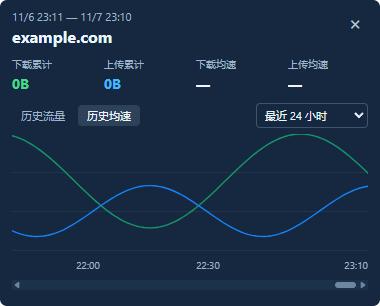
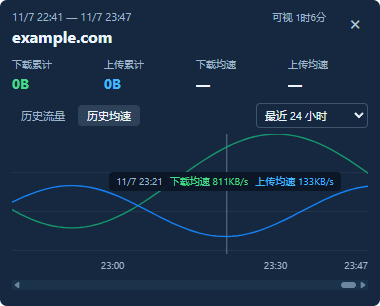
feat(history): Ctrl-wheel viewport zoom / 历史图表可视跨度缩放
Separate the visible span from the total history range, anchor Ctrl-wheel zoom to cursor time, and persist each chart scale. Update bilingual UI/docs/screenshots and regression coverage. Live restart remains pending because the environment rejected process restart and desktop control is unavailable.

区分总范围与窗口可视跨度，Ctrl＋滚轮按光标时间缩放，分别记住两种图表的缩放；更新双语界面、文档、截图与回归测试。正式实例自动重启被环境拦截，桌面控制不可用，尚待托盘退出后重开。

diff --git a/index.html b/index.html
@@ -187,6 +187,10 @@
     /* History is a horizontally scrollable timeline, not a fit-to-window chart. */
     .history-panel { position: relative; }
     .history-head { margin-bottom: 10px; }
+    .history-title { flex: 1; }
+    .history-kicker { display: flex; align-items: baseline; gap: 6px; white-space: nowrap; }
+    #historyRangeLabel { min-width: 0; overflow: hidden; text-overflow: ellipsis; }
+    #historyVisibleSpan { flex-shrink: 0; margin-left: auto; font-size: 10px; }
     .history-summary { margin-bottom: 10px; }
     .history-toolbar { display: flex; align-items: center; justify-content: space-between; gap: 6px; margin-bottom: 6px; }
     .history-tabs { margin-bottom: 0; flex-shrink: 0; }
@@ -198,14 +202,15 @@
     .history-chart, .history-speed-chart { display: block; height: 144px; padding: 0; background: none !important; }
     .history-timeline { position: relative; height: 144px; }
     .history-traffic-plot { height: 120px; display: grid; align-items: end; gap: 3px; }
-    .history-hour { height: 120px; }
+    .history-hour { height: 120px; gap: var(--history-bar-gap, 1px); }
+    .history-traffic-plot .history-bar-down, .history-traffic-plot .history-bar-up { min-width: 0; }
     .history-speed-svg { height: 120px; }
     .history-traffic-plot, .history-speed-svg { background: repeating-linear-gradient(to bottom, transparent 0, transparent 38px, rgba(157,181,200,.17) 39px); }
     .history-axis { position: relative; height: 24px; color: #9fb5c8; font-size: 10px; }
     .history-panel.light .history-axis { color: #6f8495; }
     .history-axis span { position: absolute; top: 4px; white-space: nowrap; transform: translateX(-50%); }
-    .history-axis span:first-child { transform: none; }
-    .history-axis span:last-child { transform: translateX(-100%); }
+    .history-axis .axis-start { transform: none; }
+    .history-axis .axis-end { transform: translateX(-100%); }
     .history-empty { display: block; padding-top: 48px; }
     .history-speed-legacy-note { bottom: 51px; left: 12px; z-index: 2; }
     @media (max-width: 750px) { .workspace { grid-template-columns: 1fr; } .stage { min-height: 270px; padding: 24px 18px; } .stage-heading { margin-bottom: 18px; } .settings { border-left: 0; border-top: 1px solid #d7e0dc; padding: 22px 18px 32px; } }
@@ -218,7 +223,7 @@
       <div id="meters" class="meters"></div>
       <span id="verticalAlignmentGuide" class="alignment-guide vertical" aria-hidden="true"></span>
       <span id="horizontalAlignmentGuide" class="alignment-guide horizontal" aria-hidden="true"></span>
-      <section id="historyPanel" class="history-panel" aria-labelledby="dialogTitle" hidden><div class="history-head"><div class="history-title"><span id="historyRangeLabel" class="history-kicker"></span><h2 id="dialogTitle">历史流量</h2></div><button id="closeDialog" class="close-button" type="button" aria-label="关闭" title="关闭" data-i18n-aria="action.close" data-i18n-title="action.close">×</button></div><div id="historySummary" class="history-summary"></div><div class="history-toolbar"><div class="history-tabs" role="tablist" aria-label="历史视图" data-i18n-aria="history.views"><button id="historyTabTraffic" class="history-tab" type="button" role="tab" data-tab="traffic" aria-selected="true" aria-controls="historyChart" data-i18n="history.tabTraffic">历史流量</button><button id="historyTabSpeed" class="history-tab" type="button" role="tab" data-tab="speed" aria-selected="false" aria-controls="historySpeedChart" data-i18n="history.tabSpeed">历史均速</button></div><select id="historyRange" class="history-range" aria-label="时间范围" data-i18n-aria="history.range"><option value="1h" data-i18n="history.range1h">最近 1 小时</option><option value="6h" data-i18n="history.range6h">最近 6 小时</option><option value="24h" data-i18n="history.range24h">最近 24 小时</option><option value="7d" data-i18n="history.range7d">最近 7 天</option><option value="30d" data-i18n="history.range30d">最近 30 天</option></select></div><div id="historyScroll" class="history-scroll" tabindex="0" role="region" aria-label="历史时间轴" data-i18n-aria="history.timeline"><div id="historyChart" class="history-chart" role="tabpanel" aria-labelledby="historyTabTraffic"></div><div id="historySpeedChart" class="history-speed-chart" role="tabpanel" aria-labelledby="historyTabSpeed" hidden></div></div></section>
+      <section id="historyPanel" class="history-panel" aria-labelledby="dialogTitle" hidden><div class="history-head"><div class="history-title"><div class="history-kicker"><span id="historyRangeLabel"></span><span id="historyVisibleSpan" data-i18n-title="history.zoomHint"></span></div><h2 id="dialogTitle">历史流量</h2></div><button id="closeDialog" class="close-button" type="button" aria-label="关闭" title="关闭" data-i18n-aria="action.close" data-i18n-title="action.close">×</button></div><div id="historySummary" class="history-summary"></div><div class="history-toolbar"><div class="history-tabs" role="tablist" aria-label="历史视图" data-i18n-aria="history.views"><button id="historyTabTraffic" class="history-tab" type="button" role="tab" data-tab="traffic" aria-selected="true" aria-controls="historyChart" data-i18n="history.tabTraffic">历史流量</button><button id="historyTabSpeed" class="history-tab" type="button" role="tab" data-tab="speed" aria-selected="false" aria-controls="historySpeedChart" data-i18n="history.tabSpeed">历史均速</button></div><select id="historyRange" class="history-range" aria-label="时间范围" data-i18n-aria="history.range"><option value="1h" data-i18n="history.range1h">最近 1 小时</option><option value="6h" data-i18n="history.range6h">最近 6 小时</option><option value="24h" data-i18n="history.range24h">最近 24 小时</option><option value="7d" data-i18n="history.range7d">最近 7 天</option><option value="30d" data-i18n="history.range30d">最近 30 天</option></select></div><div id="historyScroll" class="history-scroll" tabindex="0" data-i18n-title="history.zoomHint" role="region" aria-label="历史时间轴" data-i18n-aria="history.timeline"><div id="historyChart" class="history-chart" role="tabpanel" aria-labelledby="historyTabTraffic"></div><div id="historySpeedChart" class="history-speed-chart" role="tabpanel" aria-labelledby="historyTabSpeed" hidden></div></div></section>
     </section>
     <aside class="settings">
       <h2 data-i18n="settings.controller">外部控制器</h2>
@@ -253,6 +258,7 @@
       const KEY = 'netmeter-controller-v2';
       const HISTORY_TAB_KEY = 'netmeter-history-tab';
       const HISTORY_RANGE_KEY = 'netmeter-history-range';
+      const HISTORY_SPANS_KEY = 'netmeter-history-visible-spans';
       const HISTORY_RANGES = { '1h': 60, '6h': 360, '24h': 1440, '7d': 10080, '30d': 43200 };
       const I18N = {
         zh: {
@@ -272,7 +278,12 @@
           'status.configFailed': '配置失败 · {message}',
           'status.configFailedDefault': '无法保存',
           'history.last24h': '最近 24 小时',
-          'history.range': '时间范围',
+          'history.range': '总时间范围',
+          'history.visibleSpan': '可视 {span}',
+          'history.zoomHint': 'Ctrl＋滚轮调整可视跨度',
+          'history.durationDay': '{value}天',
+          'history.durationHour': '{value}时',
+          'history.durationMinute': '{value}分',
           'history.range1h': '最近 1 小时',
           'history.range6h': '最近 6 小时',
           'history.range24h': '最近 24 小时',
@@ -389,7 +400,12 @@
           'status.configFailed': 'Configuration failed · {message}',
           'status.configFailedDefault': 'Could not save',
           'history.last24h': 'Last 24 hours',
-          'history.range': 'Time range',
+          'history.range': 'Total time range',
+          'history.visibleSpan': 'View {span}',
+          'history.zoomHint': 'Ctrl + wheel to adjust the visible time span',
+          'history.durationDay': '{value}d',
+          'history.durationHour': '{value}h',
+          'history.durationMinute': '{value}m',
           'history.range1h': 'Last 1 hour',
           'history.range6h': 'Last 6 hours',
           'history.range24h': 'Last 24 hours',
@@ -521,6 +537,18 @@
         catch { return '24h'; }
       }
 
+      function storedHistoryVisibleSpans() {
+        const spans = { traffic: null, speed: null };
+        try {
+          const saved = JSON.parse(localStorage.getItem(HISTORY_SPANS_KEY));
+          for (const tab of ['traffic', 'speed']) {
+            const span = saved?.[tab];
+            if (Number.isFinite(span) && span >= 60000 && span <= 30 * 86400000) spans[tab] = span;
+          }
+        } catch { /* Invalid or unavailable storage keeps the initial density. */ }
+        return spans;
+      }
+
       function storedHistoryTab() {
         try {
           return localStorage.getItem(HISTORY_TAB_KEY) === 'speed' ? 'speed' : 'traffic';
@@ -606,6 +634,7 @@
       let historySamples = [];
       let historyRange = storedHistoryRange();
       let historyViewport = { traffic: null, speed: null };
+      const historyVisibleSpans = storedHistoryVisibleSpans();
       let historyLoadVersion = 0;
       let historyTarget = '';
       let renderedLanguage = '';
@@ -1625,27 +1654,130 @@
         return withDate ? (date.getMonth() + 1) + '/' + date.getDate() + ' ' + time : time;
       }
 
-      function drawHistoryAxis(timeline, start, end, width) {
+      function historySpanWidth(duration, span, minimum, available, fallback) {
+        if (!Number.isFinite(span) || span <= 0) return Math.max(available, fallback);
+        const bounded = Math.min(duration, Math.max(minimum, span));
+        return Math.max(available, Math.round(duration * available / bounded));
+      }
+
+      function historyZoomSpan(span, delta, minimum, maximum) {
+        const factor = Math.pow(1.2, Math.min(240, Math.max(-240, delta)) / 100);
+        return Math.min(maximum, Math.max(Math.min(minimum, maximum), span * factor));
+      }
+
+      function historyZoomPosition(oldWidth, newWidth, available, left, anchor) {
+        const x = Math.min(available, Math.max(0, anchor));
+        return Math.min(Math.max(0, newWidth - available), Math.max(0, (left + x) / oldWidth * newWidth - x));
+      }
+
+      function historyViewportBounds(start, end, width, available, left) {
+        const totalWidth = Math.max(available, width);
+        const offset = Math.min(Math.max(0, totalWidth - available), Math.max(0, left));
+        const duration = Math.max(0, end - start);
+        return { start: start + duration * offset / totalWidth, end: start + duration * (offset + available) / totalWidth };
+      }
+
+      function historyDurationLabel(duration) {
+        let minutes = Math.max(1, Math.round(duration / 60000));
+        const parts = [];
+        for (const [key, size] of [['history.durationDay', 1440], ['history.durationHour', 60], ['history.durationMinute', 1]]) {
+          const value = Math.floor(minutes / size);
+          if (value) parts.push(t(key, { value }));
+          minutes %= size;
+        }
+        return parts.join(language === 'en' ? ' ' : '');
+      }
+
+      function sizeHistoryTimeline(timeline, width) {
+        timeline.style.width = width + 'px';
+        const plot = timeline.querySelector('.history-traffic-plot');
+        if (plot) {
+          const slot = width / plot.children.length;
+          plot.style.gap = Math.min(3, slot / 8) + 'px';
+          plot.style.setProperty('--history-bar-gap', Math.min(1, slot / 8) + 'px');
+        }
+      }
+
+      function drawHistoryAxis(timeline, start, end, fallback, minimum) {
+        timeline.dataset.start = String(start);
+        timeline.dataset.end = String(end);
+        timeline.dataset.minimumSpan = String(minimum);
+        const width = historySpanWidth(end - start, historyVisibleSpans[historyTab], minimum, historyScroll.clientWidth, fallback);
+        sizeHistoryTimeline(timeline, width);
         const axis = document.createElement('div');
         axis.className = 'history-axis';
+        timeline.append(axis);
+      }
+
+      // Only materialize ticks around the viewport, even when zooming a 30-day timeline.
+      function updateHistoryAxis(timeline) {
+        const axis = timeline.querySelector('.history-axis');
+        if (!axis) return;
+        const start = Number(timeline.dataset.start), end = Number(timeline.dataset.end);
+        const width = timeline.getBoundingClientRect().width;
         const duration = Math.max(60000, end - start);
-        const minimum = duration / Math.max(1, width / 100);
-        const interval = [1, 5, 15, 30, 60, 180, 360, 1440].map(value => value * 60000).find(value => value >= minimum) || 86400000;
-        const ticks = [start];
-        for (let at = Math.ceil(start / interval) * interval; at < end; at += interval) {
+        const interval = [1, 5, 15, 30, 60, 180, 360, 1440, 4320, 10080, 20160, 43200]
+          .map(value => value * 60000).find(value => value >= duration * 100 / width) || 30 * 86400000;
+        const left = historyScroll.scrollLeft - 100, right = historyScroll.scrollLeft + historyScroll.clientWidth + 100;
+        const ticks = [];
+        if (left <= 0) ticks.push(start);
+        const first = Math.ceil((start + Math.max(0, left) / width * duration) / interval) * interval;
+        for (let at = first; at < end && (at - start) / duration * width <= right; at += interval) {
           const x = (at - start) / duration * width;
           if (x >= 75 && x <= width - 75) ticks.push(at);
         }
-        if (end > start) ticks.push(end);
+        if (right >= width && end > start) ticks.push(end);
+        axis.replaceChildren();
         ticks.forEach(at => {
           const tick = document.createElement('span');
           tick.style.left = ((at - start) / duration * width) + 'px';
+          if (at === start) tick.className = 'axis-start';
+          if (at === end) tick.className = 'axis-end';
           tick.textContent = historyTimeLabel(at, historyRange.endsWith('d'));
           tick.title = historyTimeLabel(at, true);
           tick.dataset.at = String(at);
           axis.append(tick);
         });
-        timeline.append(axis);
+      }
+
+      function updateHistoryViewport() {
+        const timeline = (historyTab === 'speed' ? historySpeedChart : historyChart).querySelector('.history-timeline');
+        const bounds = timeline ? historyViewportBounds(Number(timeline.dataset.start), Number(timeline.dataset.end),
+          timeline.getBoundingClientRect().width, historyScroll.clientWidth, historyScroll.scrollLeft) :
+          historyRangeBounds(Date.now(), HISTORY_RANGES[historyRange] * 60000);
+        const end = bounds.end ?? bounds.last;
+        const label = document.getElementById('historyRangeLabel');
+        label.textContent = historyTimeLabel(bounds.start, true) + ' — ' + historyTimeLabel(end, true);
+        label.dataset.start = String(bounds.start);
+        label.dataset.end = String(end);
+        document.getElementById('historyVisibleSpan').textContent = t('history.visibleSpan', { span: historyDurationLabel(end - bounds.start) });
+        if (timeline) updateHistoryAxis(timeline);
+        historyViewport[historyTab] = { left: historyScroll.scrollLeft,
+          atEnd: historyScroll.scrollWidth - historyScroll.clientWidth - historyScroll.scrollLeft < 2 };
+        const tip = historyPanel.querySelector('.history-speed-tip');
+        if (tip) tip.hidden = true;
+        historyPanel.querySelector('.history-speed-cursor')?.setAttribute('opacity', '0');
+      }
+
+      function zoomHistoryViewport(event) {
+        // Cancel page zoom even at chart limits or when there is no history yet.
+        event.preventDefault();
+        const timeline = (historyTab === 'speed' ? historySpeedChart : historyChart).querySelector('.history-timeline');
+        if (!timeline || !event.deltaY) return;
+        const available = historyScroll.clientWidth;
+        const oldWidth = timeline.getBoundingClientRect().width;
+        const duration = Number(timeline.dataset.end) - Number(timeline.dataset.start);
+        const minimum = Number(timeline.dataset.minimumSpan);
+        const delta = event.deltaY * (event.deltaMode === 1 ? 16 : event.deltaMode === 2 ? available : 1);
+        const span = historyZoomSpan(duration * available / oldWidth, delta, minimum, duration);
+        const newWidth = historySpanWidth(duration, span, minimum, available, oldWidth);
+        const anchor = event.clientX - historyScroll.getBoundingClientRect().left;
+        const left = historyZoomPosition(oldWidth, newWidth, available, historyScroll.scrollLeft, anchor);
+        historyVisibleSpans[historyTab] = span;
+        try { localStorage.setItem(HISTORY_SPANS_KEY, JSON.stringify(historyVisibleSpans)); } catch { /* Remember in this window. */ }
+        sizeHistoryTimeline(timeline, newWidth);
+        historyScroll.scrollLeft = left;
+        updateHistoryViewport();
       }
 
       function drawHistory(samples) {
@@ -1681,7 +1813,7 @@
           plot.append(group);
         });
         timeline.append(plot);
-        drawHistoryAxis(timeline, data.start, data.end, width);
+        drawHistoryAxis(timeline, data.start, data.end, width, data.bucketMs);
         historyChart.append(timeline);
       }
 
@@ -1793,7 +1925,7 @@
         timeline.className = 'history-timeline';
         timeline.style.width = width + 'px';
         timeline.innerHTML = parts.join('');
-        drawHistoryAxis(timeline, series[0].at, series.at(-1).at, width);
+        drawHistoryAxis(timeline, series[0].at, series.at(-1).at, width, 5 * 60000);
         historySpeedChart.append(timeline);
         bindHistorySpeedHover(series);
         if (hasLegacy) {
@@ -1838,7 +1970,7 @@
           tip.style.left = left + 'px';
           tip.style.top = top + 'px';
           if (cursor) {
-            const x = historySpeedX(index, series.length).toFixed(2);
+            const x = historySpeedX(index, series.length).toFixed(5);
             cursor.setAttribute('x1', x);
             cursor.setAttribute('x2', x);
             cursor.setAttribute('opacity', '1');
@@ -1849,12 +1981,11 @@
       function renderHistoryTab() {
         const position = historyViewport[historyTab];
         historyRangeSelect.value = historyRange;
-        const bounds = historyRangeBounds(Date.now(), HISTORY_RANGES[historyRange] * 60000);
-        document.getElementById('historyRangeLabel').textContent = historyTimeLabel(bounds.start, true) + ' — ' + historyTimeLabel(bounds.last, true);
         historyPanel.querySelectorAll('.history-speed-tip, .history-speed-legacy-note').forEach(node => node.remove());
         if (historyTab === 'speed') drawHistorySpeed(historySamples);
         else drawHistory(historySamples);
         historyScroll.scrollLeft = !position || position.atEnd ? historyScroll.scrollWidth : position.left;
+        updateHistoryViewport();
       }
 
       function setHistoryTab(tab) {
@@ -2042,14 +2173,10 @@
         historyViewport = { traffic: null, speed: null };
         refreshHistoryTab();
       });
-      historyScroll.addEventListener('scroll', () => {
-        historyViewport[historyTab] = { left: historyScroll.scrollLeft,
-          atEnd: historyScroll.scrollWidth - historyScroll.clientWidth - historyScroll.scrollLeft < 2 };
-        const tip = historyPanel.querySelector('.history-speed-tip');
-        if (tip) tip.hidden = true;
-      });
+      historyScroll.addEventListener('scroll', updateHistoryViewport);
       historyScroll.addEventListener('wheel', event => {
-        if (event.ctrlKey || Math.abs(event.deltaX) > Math.abs(event.deltaY)) return;
+        if (event.ctrlKey) { zoomHistoryViewport(event); return; }
+        if (Math.abs(event.deltaX) > Math.abs(event.deltaY)) return;
         const before = historyScroll.scrollLeft;
         historyScroll.scrollLeft += event.deltaY * (event.deltaMode === 1 ? 16 : event.deltaMode === 2 ? historyScroll.clientWidth : 1);
         if (historyScroll.scrollLeft !== before) event.preventDefault();

diff --git a/AGENT_MEMORY.md b/AGENT_MEMORY.md
@@ -25,7 +25,8 @@
 - 悬浮窗在屏幕上的位置保存在用户数据目录的 `widget-window.json`，窗口移动后落盘，重启后恢复并限制在可见屏幕范围内。启动时执行 `normalizeMeterLayout()`：先把整体平移到原点，若仍超过窗口可见范围则回退为两列紧凑默认布局，避免方格被拖到几千像素外后无法找回。
 - `main.mjs` 的 `ensureAppIcon()` 在创建窗口前更新用户数据目录中的 ICO。`shell-identity.mjs` 统一窗口重启属性与快捷方式 AppUserModelID（`local.netmeter.desktop`）、NetMeter 名称、ICO 和带项目目录参数的命令；两个窗口先 `show:false`，调用 `setAppDetails` 后再显示。启动时安装并修复旧 .lnk，通过 `shell.writeShortcutLink` 保存正确身份，不会自动固定；原 PowerShell 安装器只负责复制图标和基础 .lnk，AppUserModelID 的最终修复由主进程完成。
 - 历史流量只由方格头部域名触发，直接替换悬浮窗内容，保留 380×306 实色整窗；不使用内层弹窗或纵向滚动。2026-11-07 用户明确要求时间跨度和可滚动图表，已允许图表时间轴单独横向滚动，替代旧的“禁止滚动/全宽压缩”要求。
-- 历史面板的“历史流量”和“历史均速”共用最近 1/6/24 小时、7/30 天范围选择（默认 24 小时），独立 `netmeter-history-range` 键记忆范围；保留完整时间边界，标题上方显示实际日期/时分，轴下有时间刻度。1/6 小时流量按 5 分钟画柱，较长范围按小时，每组连同间隔 32px；速度仍逐分钟，至少 4px/分钟，长范围不缩入一屏。普通滚轮、原生横向滚动条、触摸板及 Home/End 可导航；打开/换范围先到最新，标签切换保留各自位置。
+- 历史面板的“历史流量”和“历史均速”共用最近 1/6/24 小时、7/30 天范围选择（默认 24 小时），独立 `netmeter-history-range` 键记忆范围；保留完整时间边界，标题上方显示当前可视日期/时分与可视时长，轴下有时间刻度。1/6 小时流量按 5 分钟画柱，较长范围按小时，初始每组连同间隔 32px；速度仍逐分钟，初始 4px/分钟，用户缩放可覆盖初始密度。普通滚轮、原生横向滚动条、触摸板及 Home/End 可导航；打开/换范围先到最新，标签切换保留各自位置。
+- 2026-11-07 用户补充“可视跨度”独立于总范围：两个图表支持 Ctrl＋滚轮上放大、下缩小，以光标时间为锚点（边界才约束），普通滚轮仍横向滚动；顶部起止时间和双语可视时长实时跟随。`historyVisibleSpans` 按图表分别存入 `netmeter-history-visible-spans`，关闭重开、换域名、重启后保留；较短范围临时约束而不覆盖长范围偏好。最大缩到全范围，最小放到均速 5 分钟或流量 1 个桶。缩放只改现有时间轴宽度，不重采样、不改原始字节/活跃秒/均速口径或纵轴；流量柱间隔随密度缩小，刻度只生成可视区附近少量节点。分钟指示线与曲线路径统一 5 位小数，30 天极限放大仍对齐。
 - 历史标签采用“记住上次选择”，不新增设置页默认视图：首次使用是“历史流量”，切换时把 `traffic` 或 `speed` 存到独立的 `netmeter-history-tab` 本地键；关闭重开、换域名和应用重启后恢复。存储不可用时当前渲染会话仍保留选择；无效存储值回退“历史流量”。
 - 「历史均速」曲线口径与方格均速一致：从用户选择的范围按分钟计算，保留真实首尾与空闲区段，纵轴是当前统计窗口（2/5/10 分钟）内的字节 ÷ 该方向有流量秒数，下载上传各自独立。IndexedDB 分钟样本的 `downSeconds`/`upSeconds` 保存各方向活跃秒。2026-11-06 纠错：旧记录有字节而缺少活跃秒时，原读取和同分钟更新都擅自按 60 秒兜底，短时高速流量会被显著压低；现 `historyActiveSeconds` 返回 `null` 表示未知，`historySpeedSeries` 按方向阻断受污染窗口的曲线，写入侧合并新样本时继续保留该方向的未知状态。全缺秒时双语说明，部分缺秒时图表标注；历史流量柱状图保留字节。先前已被旧代码补写成 60 秒的记录无法与真正持续 60 秒的样本可靠区分，不能自动恢复真实均速。
 - 2026-11-07 新要求取代早期“有效数据直接满宽”：已移除 `historySpeedViewport` 首尾裁剪，`historySpeedSeries` 新增可选范围参数，历史加载保留统计窗口预热分钟。`historySpeedX` 使用同一完整时间映射，归一化 X 坐标保留 5 位小数，避免 30 天长轴出现像素量化。SVG 路径仍 1.4px 不缩放描边，下载/上传共用纵轴，无活跃流量按方向断线；滚动后的悬停仍读该分钟窗口均速，不用峰值替代。提示与旧数据缺秒标注固定在可视窗口内，不随时间轴滚走。
@@ -38,9 +39,12 @@
 - 英文文案更宽，`body.lang-en .stat` 把统计行标签列从 30px 放宽到 37px、数值列收窄到 59px，方格总尺寸仍是 180×148；探针用 `Range` 量出标签文字右边缘与数值列左边缘的间距，要求中英文都 ≥3px，避免英文 “Total” 贴住方向箭头。
 - 应用图标：`assets/tray/netmeter.ico`（16/20/24/32/40/48/64px），绿下载/蓝上传、深底浅轮廓；托盘、窗口标题栏和开始菜单快捷方式统一复用。旧 SVG 原生解码为空，已改 ICO 并检查非空；2026-11-07 补齐用户截图指出仍为旧图标的设置窗口标题栏。`scripts/generate-tray-icons.cjs` 从 SVG 重建 ICO/PNG 与浅深背景预览，详见 README。
 - Electron 主进程也做了本地化：`main.mjs` 的 `UI_STRINGS` 提供托盘菜单和设置窗口标题的中英文案，`ipcMain.on('app:language')` 收到渲染进程的 `setLanguage` 后重建托盘菜单并更新窗口标题；`preload.cjs` 暴露 `setLanguage`。
-- `scripts/screenshot-probe.cjs` 可重建中英文方格/历史/设置效果图；当前四张历史效果图由 `scripts/history-timeline-probe.cjs` 以真实 380×306 窗口与合成分钟数据更新，显示日期范围、横向滚动条、时间刻度和均速悬停。设置页效果图仍按内容高度加高，方格仍为 384×162。
+- `scripts/screenshot-probe.cjs` 可重建中英文方格/历史/设置效果图；当前四张历史效果图由 `scripts/history-timeline-probe.cjs` 以真实 380×306 窗口与合成分钟数据更新，显示当前可视日期、双语可视跨度、横向滚动条、时间刻度和均速悬停。设置页效果图仍按内容高度加高，方格仍为 384×162。
 
 ## 验证
+
+- 2026-11-07 可视跨度缩放：`npm test` 86/86；实际 Electron 主进程历史探针 45/45（包括原生 Ctrl 滚轮、光标锚定、双图独立持久化、普通滚动、总范围与字节/曲线不变、30 天缩放上下界、720 根流量柱压缩、5 分钟极限的分钟指示线、双语截图），双语探针 27/27；内联、主进程、preload、服务与探针语法检查通过。四张中英文历史截图已用隔离合成数据更新并逐张查看，不是用户真实历史；本轮无可用 Playwright，视觉检查使用实际 Electron 捕获。
+- 本轮正式实例尚未重启：经实例租约尝试正常桌面退出，但 Windows Computer Use 返回 native pipe 不存在；进程重启命令在执行前被工具策略拒绝，未绕过限制，原实例保留。控制运行时已重置、实例租约已释放。必须明确告知用户仍需从托盘退出并重新打开，不能沿用上一轮“已重启”结论。
 
 - 2026-11-07 时间范围/任务栏身份修复：`npm test` 78/78；历史实际主进程探针 23/23，双语探针 27/27，Windows 原生属性探针 13/13；Electron、前端内联及探针语法检查通过。任务栏验收读取了两个实际 HWND 的重启名称/图标/命令和 AppUserModelID，并读取生成的 .lnk，均一致；未自动改写用户现有固定项，也未冒充已经目视验收 Windows 已固定磁贴。
 - 正式实例已重启，仍启用且配置已恢复；`Get-StartApps -Name NetMeter` 现报告 `local.netmeter.desktop`，不再是此前的 AutoGenerated ID，真实开始菜单快捷方式显式引用新 ICO。用户先前固定的通用 Electron 项是旧快照，须取消后重新固定 NetMeter；不得批量操作其他 Electron 程序。
@@ -69,7 +73,7 @@
 - `history-speed.test.mjs` 与 `history-timeline.test.mjs` 覆盖分钟均速、方向独立活跃秒、旧记录缺秒、范围边界与统计预热、5 分钟/小时流量桶字节守恒、未来/范围外过滤、时间轴宽度、独立范围记忆与过时异步加载丢弃。早期首尾裁剪/全宽压缩断言已按用户新要求替换。
 - `i18n.test.mjs`（12 项）直接从 `index.html` 取出 `I18N` 字典做纯函数测试：中英键集合完全一致、没有空文案、英文文案不含中文、占位符两边一致、`t()` 能替换占位符并在缺键时回退到中文、标记里的 `data-i18n*` 钩子和 JS 里的 `t('key')` 引用都指向存在的键、语言下拉框存在且语言不写进设置对象、`setLanguage` 会重绘方格与历史面板、悬浮方格通过 `storage` 事件跟随、主进程托盘菜单与窗口标题已本地化。
 - `scripts/i18n-probe.cjs` 用离屏 Electron 真实窗口验证双语渲染与切换；最近保存的探针日志为 27/27 通过，覆盖中英文方格文案、`<html lang>`、标题与 aria 文案、语言落盘、历史面板标题与标签、摘要四列、曲线 aria-label 与悬停提示、切回中文、另一个窗口（设置页）跟随切换、下拉框显示文案翻译但取值不变、标签文字与箭头间距 ≥3px、无渲染脚本错误。
-- `scripts/history-timeline-probe.cjs` 使用实际主进程、独立临时配置和合成分钟数据，23/23 验证真实 380×306 窗口、独立设置窗口、范围选择、横向滚动、悬停值与方向独立均速、切换/重载记忆、旧数据提示、暗/浅色和中英文截图；`scripts/history-curve-probe.cjs` 是兼容入口，日志同时写旧名。截图仅覆盖合成数据，不读取用户密钥或替换真实历史。
+- `scripts/history-timeline-probe.cjs` 使用实际主进程、独立临时配置和合成分钟数据，45/45 验证真实 380×306 窗口、独立设置窗口、范围选择、横向滚动、悬停值与方向独立均速、切换/重载记忆、旧数据提示、暗/浅色和中英文截图；`scripts/history-curve-probe.cjs` 是兼容入口，日志同时写旧名。截图仅覆盖合成数据，不读取用户密钥或替换真实历史。
 - `node --check` 已通过 `main.mjs`、`preload.cjs`、`server.mjs`、`average.test.mjs`、`scripts/average-probe.cjs`，内嵌前端脚本语法已通过；自由拖动使用 Pointer Events、分轴对齐和指针捕获，窗口尺寸由像素外接边界驱动。Electron 实际启动时确认设置窗口与方格窗口同时存在且会互相避让。
 - 通过 CDP 派发指针事件并在实际 Electron 窗口中验证：普通左键拖动使悬浮窗整体位移且两格相对位置不变（实测窗口 +80/+60），`Ctrl` 拖动只移动被按下的那一格（实测 +120/+80，另一格不动）；拖出画布左/上边界时悬浮窗同步平移且方格仍跟随指针；域名点击仍打开历史、齿轮点击仍打开设置、均速/峰值仍可切换；历史窗口实测为 380×306。
 - Electron 45.2.1 已安装并启动过；使用独立临时用户数据写入合成测试密钥后，完成一次真实 Electron 重启，确认 `/api/status` 自动恢复为已配置，设置页显示安全保存提示，随后已清理临时测试数据。正式实例在 4174 监听。

diff --git a/README.md b/README.md
@@ -70,7 +70,7 @@ Windows 托盘使用绿色下载、蓝色上传双箭头图标；`assets/tray/ne
 
 **创建快捷方式不等于固定。** 托盘或方格右键菜单选择“固定到开始菜单…”后，应用会准备快捷方式并请求系统固定，只有确认系统已固定才显示成功。若 Windows 拒绝自动固定，会明确提示尚未固定：点击“打开快捷方式位置”，右键选中的 `NetMeter` → “固定到开始”或“固定到开始屏幕”（必要时先选“显示更多选项”）。取消不会打开资源管理器，启动不会自动固定。
 
-方格的统计行默认显示均速；点击“均速”可切换为“峰值”，每个方格独立切换。均速与峰值共用设置页选定的统计窗口（最近 2 / 5 / 10 分钟，默认 5 分钟）：均速是窗口内该方向的字节增量 ÷ 该方向有流量的秒数，下载与上传各自独立、空闲秒不计入分母；峰值取窗口内该方向有流量的最高单次采样速度，样本滑出窗口后自动回落，窗口内无流量时两者都显示“—”。点击方格顶部的域名可查看该域名的历史流量，历史视图直接在方格窗口内展开，使用与方格一致的整窗实色背景，不使用内层弹窗或整窗纵向滚动。两个历史标签共用“最近 1/6/24 小时、7/30 天”时间范围选择，默认 24 小时并记住最近选择。图表保留真实起止日期和空闲区段，横向滚动查看，不再把所有历史缩进一屏；支持滚动条、普通滚轮、触摸板及 Home/End，打开或换范围先显示最新部分。流量在 1/6 小时内按 5 分钟画柱，较长范围按小时；均速始终逐分钟绘制，每分钟至少 4px。纵轴和悬停读数仍是同一统计窗口内的均速，口径与方格一致。曲线上的悬停读数给出光标所在分钟的均速（该统计窗口内该方向的字节增量 ÷ 有流量的秒数），并带一条竖直指示线标出该分钟；历史曲线只用均速，不使用峰值代替。旧历史若有字节但缺少对应方向的活跃秒，该方向窗口均速无法还原，曲线留空并提示，流量柱状图仍保留原字节；不再擅自按 60 秒摊薄。此前已经被补写为 60 秒的少量旧记录无法与真实 60 秒数据可靠区分，不能自动恢复。
+方格的统计行默认显示均速；点击“均速”可切换为“峰值”，每个方格独立切换。均速与峰值共用设置页选定的统计窗口（最近 2 / 5 / 10 分钟，默认 5 分钟）：均速是窗口内该方向的字节增量 ÷ 该方向有流量的秒数，下载与上传各自独立、空闲秒不计入分母；峰值取窗口内该方向有流量的最高单次采样速度，样本滑出窗口后自动回落，窗口内无流量时两者都显示“—”。点击方格顶部的域名可查看该域名的历史流量，历史视图直接在方格窗口内展开，使用与方格一致的整窗实色背景，不使用内层弹窗或整窗纵向滚动。两个历史标签共用“最近 1/6/24 小时、7/30 天”时间范围选择，默认 24 小时并记住最近选择。图表保留真实起止日期和空闲区段，横向滚动查看，不再把所有历史缩进一屏；支持滚动条、普通滚轮、触摸板及 Home/End，打开或换范围先显示最新部分。流量在 1/6 小时内按 5 分钟画柱，较长范围按小时；均速始终逐分钟绘制，初始为每分钟 4px。总范围与可视跨度分开：在图表上按住 Ctrl 滚轮向上放大、向下缩小，尽量保持光标下的时间不动；顶部实时显示当前可见起止时间与“可视”时长。两种图表分别记住缩放，关闭重开或重启仍保留；缩放不改变总范围、样本值或均速口径。纵轴和悬停读数仍是同一统计窗口内的均速，口径与方格一致。曲线上的悬停读数给出光标所在分钟的均速（该统计窗口内该方向的字节增量 ÷ 有流量的秒数），并带一条竖直指示线标出该分钟；历史曲线只用均速，不使用峰值代替。旧历史若有字节但缺少对应方向的活跃秒，该方向窗口均速无法还原，曲线留空并提示，流量柱状图仍保留原字节；不再擅自按 60 秒摊薄。此前已经被补写为 60 秒的少量旧记录无法与真实 60 秒数据可靠区分，不能自动恢复。
 
 历史面板会记住上次选中的标签：下次打开任意域名的历史或重启应用后会恢复该视图。首次使用默认“历史流量”，无需在设置页另选默认值。
 
@@ -137,7 +137,7 @@ The settings title bar, widget window, and tray share the same transfer-arrow IC
 
 **Creating a shortcut is not pinning it.** Choose “Pin to Start…” in the tray or tile context menu to prepare the shortcut and request native pinning. Success is reported only after Windows confirms it. If Windows rejects automatic pinning, the app explicitly says it is not pinned yet: choose “Open shortcut location”, right-click the selected `NetMeter` shortcut, then choose “Pin to Start” (use “Show more options” first if needed). Cancel does not open Explorer, and startup never automatically pins the app.
 
-The statistics row of a tile shows the average by default; click “Avg” to switch it to “Peak”. Each tile switches on its own. The average and the peak share the statistics window chosen in the settings (last 2 / 5 / 10 minutes, 5 minutes by default): the average is the byte delta in that window ÷ the seconds in that direction that carried traffic, computed separately for download and upload with idle seconds excluded from the denominator; the peak is the highest single-sample speed of that direction inside the same window, and it falls back as soon as its sample leaves the window. Both show “—” when the direction had no traffic in the window. Click the domain at the top of a tile to open that domain's traffic history; the history view expands inside the tile window itself, using the same solid window background as the tiles, with no inner dialog or vertical window scrolling. Both history tabs share a remembered range selector: last 1/6/24 hours or 7/30 days (24 hours by default). The dated timeline preserves the actual bounds and idle gaps and scrolls horizontally instead of squeezing all records into one screen. Use the scrollbar, mouse wheel, touchpad, or Home/End; opening history or changing the range starts at its newest portion. Traffic uses five-minute bars for the 1/6-hour ranges and hourly bars for longer ranges. Average speed stays at minute resolution with at least four pixels per minute, using the same statistics window and definition as the tiles. Hovering the curve reads out the average speed of the minute under the cursor (the byte delta in that statistics window ÷ the seconds that carried traffic) and marks the minute with a vertical guide line; the history curve only ever reports averages and never substitutes a peak. If older byte records lack active seconds for a direction, that direction’s window cannot have a truthful average: the curve has a gap and a bilingual notice, while the traffic bars retain their byte totals. We no longer spread such bytes over an invented 60 seconds. Some earlier records already written with a synthetic 60 seconds cannot reliably be distinguished from genuine 60-second records or reconstructed automatically.
+The statistics row of a tile shows the average by default; click “Avg” to switch it to “Peak”. Each tile switches on its own. The average and the peak share the statistics window chosen in the settings (last 2 / 5 / 10 minutes, 5 minutes by default): the average is the byte delta in that window ÷ the seconds in that direction that carried traffic, computed separately for download and upload with idle seconds excluded from the denominator; the peak is the highest single-sample speed of that direction inside the same window, and it falls back as soon as its sample leaves the window. Both show “—” when the direction had no traffic in the window. Click the domain at the top of a tile to open that domain's traffic history; the history view expands inside the tile window itself, using the same solid window background as the tiles, with no inner dialog or vertical window scrolling. Both history tabs share a remembered range selector: last 1/6/24 hours or 7/30 days (24 hours by default). The dated timeline preserves the actual bounds and idle gaps and scrolls horizontally instead of squeezing all records into one screen. Use the scrollbar, mouse wheel, touchpad, or Home/End; opening history or changing the range starts at its newest portion. Traffic uses five-minute bars for the 1/6-hour ranges and hourly bars for longer ranges. Average speed stays at minute resolution (initially four pixels per minute), using the same statistics window and definition as the tiles. The total range and visible span are independent: Ctrl + wheel up zooms in and Ctrl + wheel down zooms out, keeping the time under the cursor anchored where possible. The header follows the visible start/end times and shows the visible duration. Each chart remembers its own zoom across reopening and restarts; zoom never changes the total range, sample values, or averaging definition. Hovering the curve reads out the average speed of the minute under the cursor (the byte delta in that statistics window ÷ the seconds that carried traffic) and marks the minute with a vertical guide line; the history curve only ever reports averages and never substitutes a peak. If older byte records lack active seconds for a direction, that direction’s window cannot have a truthful average: the curve has a gap and a bilingual notice, while the traffic bars retain their byte totals. We no longer spread such bytes over an invented 60 seconds. Some earlier records already written with a synthetic 60 seconds cannot reliably be distinguished from genuine 60-second records or reconstructed automatically.
 
 The history panel remembers the last selected tab. Reopening another domain or restarting the app restores that view. On first use it starts with “Traffic”; there is no separate default-view setting.
 

diff --git a/UI_DESIGN_SPEC.md b/UI_DESIGN_SPEC.md
@@ -122,16 +122,19 @@
 - 历史窗口固定为 380×306px，内容直接占据窗口，不使用内层 `<dialog>`。
 - 历史背景使用整窗实色 `#15283f`，不能透明，也不能透出桌面。
 - 不使用外层卡片或内层圆角弹窗；窗口本身不滚动，只有图表时间轴允许横向滚动，不允许纵向滚动。
-- 顶部显示所选范围的实际起止日期/时分和域名标题；标题只写域名，视图名交给标签栏表达；颜色仍表达下载/上传语义。
+- 顶部显示当前可视窗口的实际起止日期/时分和紧凑的“可视”时长（英文 View），随滚动和缩放更新；下拉框仍表示独立的总时间范围。域名标题只写域名，视图名交给标签栏表达；颜色仍表达下载/上传语义。
 - 摘要固定为四列：下载累计、上传累计、下载均速、上传均速。
 - 摘要中的下载均速、上传均速与方格使用同一个窗口化活跃秒均速，不是所选历史范围的平均值；四列标题文字不得改写或追加窗口说明。
 - 摘要下方是标签栏，只有“历史流量”和“历史均速”两项，11px 字，选中项用同一套语义底色高亮；标签栏紧贴图表，切换只更换图表，摘要与窗口尺寸不变。
 - 首次打开历史显示“历史流量”；用户切换标签后记住最近使用的视图，关闭重开、切换域名及重启应用后仍恢复该视图。偏好独立于控制器设置保存，不在设置页增加默认视图选项；存储不可用时当前窗口内仍记住选择。
 - 两个标签共用“最近 1/6/24 小时、7/30 天”时间范围下拉框，默认 24 小时，使用独立本地键记住选择；切换范围不改变均速统计窗口或历史保留设置，显示范围以选择为准，均速可预读范围前的统计窗口样本进行预热。
-- “历史流量”在 1/6 小时范围内按 5 分钟画柱，24 小时及更长范围按小时画柱；每组连同间隔至少 32px，不把所有柱强制挤入窗口。允许细网格线，不增加独立容器边框。
-- “历史均速”按所选范围逐分钟重放，保留完整时间边界与首尾/内部空白，不再裁掉空白后把整段有效历史缩进一屏。每分钟至少 4px，时间轴总宽不小于可视图表宽。纵轴是当前统计窗口（2/5/10 分钟）内的均速，下载与上传各自独立、口径与方格一致（字节 ÷ 有流量的秒数），两条曲线共用一个纵轴上限，下载用下载色、上传用上传色，曲线宽 1.4px、不填充、不加阴影，窗口内没有该方向流量的区段断开而不是画成 0。旧分钟记录有字节但缺少该方向活跃秒时，不得假定整分钟 60 秒或猜测高速值：含此记录的窗口该方向曲线断开、悬停显示“—”；全部不可计算时显示双语说明，部分区段不可计算时在图表内提示。历史流量柱状图仍保留原始字节。旧版已经写入过 60 秒的个别记录与真实 60 秒记录无法可靠区分，不自动篡改。
+- “历史流量”在 1/6 小时范围内按 5 分钟画柱，24 小时及更长范围按小时画柱；初始每组连同间隔 32px，不把所有柱强制挤入窗口；用户缩小时允许更密，柱间隔同步缩小且不产生额外溢出。允许细网格线，不增加独立容器边框。
+- “历史均速”按所选范围逐分钟重放，保留完整时间边界与首尾/内部空白，不再裁掉空白后把整段有效历史缩进一屏。初始每分钟 4px，用户可缩放时间密度，时间轴总宽不小于可视图表宽。纵轴是当前统计窗口（2/5/10 分钟）内的均速，下载与上传各自独立、口径与方格一致（字节 ÷ 有流量的秒数），两条曲线共用一个纵轴上限，下载用下载色、上传用上传色，曲线宽 1.4px、不填充、不加阴影，窗口内没有该方向流量的区段断开而不是画成 0。旧分钟记录有字节但缺少该方向活跃秒时，不得假定整分钟 60 秒或猜测高速值：含此记录的窗口该方向曲线断开、悬停显示“—”；全部不可计算时显示双语说明，部分区段不可计算时在图表内提示。历史流量柱状图仍保留原始字节。旧版已经写入过 60 秒的个别记录与真实 60 秒记录无法可靠区分，不自动篡改。
 - 曲线区沿用与柱状区相同的细网格线与尺寸；悬停提示读出光标所在分钟的下载与上传均速，即该分钟曲线点的值（同一统计窗口内的字节增量 ÷ 有流量的秒数），并用一条竖直指示线标出该分钟。历史曲线只报均速，不得用峰值代替，也不得按小时聚合成一个读数；提示不追加说明文字。
 - 图表下方有日期/时分刻度和横向滚动条；普通滚轮可横向翻看，触摸板横向滚动与键盘方向键可用，Home/End 到最早/最新位置。打开历史或换范围先显示最新部分，标签切换保留各自滚动位置；悬停位置与时间轴严格一致，提示浮层限制在窗口可视范围内。
+- 两个图表都支持 `Ctrl`＋滚轮调整可视跨度：向上放大（跨度变小）、向下缩小（跨度变大），优先固定光标下的时间，碰到范围边界才约束位置；取消浏览器页面缩放，包括缩放极限与空数据状态。最大可视跨度是所选总范围；均速最小 5 分钟，流量最小 1 个柱桶（5 分钟或 1 小时）。普通滚轮仍只横向滚动。
+- 两种图表使用独立 `netmeter-history-visible-spans` 偏好记住可视跨度，切换标签、关闭重开、换域名及应用重启后恢复；切换较短总范围时临时约束到范围边界，回到长范围恢复偏好。缩放只改 X 轴，不改变总范围、样本粒度、字节累计、均速或纵轴；只在悬停标题提供快捷键提示，不增加说明段落。
+- 长时间轴仅生成可视区附近的刻度，避免极限放大时创建成千上万的刻度节点；曲线和分钟指示线 X 坐标统一保留 5 位小数，最大 30 天缩放下仍对齐。
 - 两个标签、范围选择和时间轴都必须有可见键盘焦点，左右方向键在标签之间切换。
 
 ## 设置页
